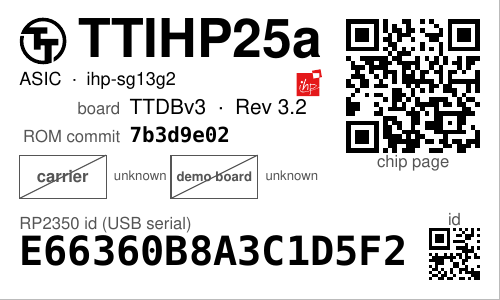
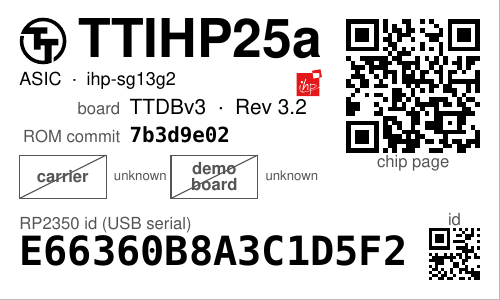
labels: set "demo board" on two lines in its swatch
The swatch box is 11 x 5.5 mm -- wider than it is tall, but not wide
enough for "demo board" on one line, so the label shrank to fit while
"carrier" next to it stayed at full size. A newline in the label now
breaks it across lines, sized and centred as a block, and the two
swatches read as a pair again.

Single-line labels are unaffected: one line puts the block height back
at the cap height and the arithmetic collapses to what it was.

Claude-Session: https://claude.ai/code/session_01LCLVLgs8o6ZGnGG13ZGLVe

Changed region(s): [[0.33, 0.54, 0.51, 0.66]]

diff --git a/src/rpi_hwid/labels.py b/src/rpi_hwid/labels.py
@@ -632,7 +632,9 @@ def swatch(lab, x, y, w, h, mask, silk=None, label=""):
     colour and lettered, like the board itself, in the silkscreen colour.
     A colour that is not recorded leaves the box empty and struck through,
     and the lettering falls back to grey. The keyline matters -- a white
-    soldermask is a white box on white stock."""
+    soldermask is a white box on white stock. A newline in `label` breaks
+    it across lines, which a two-word name needs: set on one line it has
+    to shrink to the box's width, and the box is wider than it is tall."""
     c = lab.c
     px, py = lab.pt(x, y + h)
     c.setStrokeColor(GREY)
@@ -646,9 +648,14 @@ def swatch(lab, x, y, w, h, mask, silk=None, label=""):
     c.setStrokeColor(black)
     c.setFillColor(black)
     if label:
-        size = lab.fitted_size(label, SANS_BOLD, 6, w - 1 * mm, min_size=4.5)
-        lab.text(x + w / 2, y + (h - size * 0.72) / 2, label, SANS_BOLD, size,
-                 align="centre", color=HexColor(silk) if silk else GREY)
+        lines = label.split("\n")
+        size = min(lab.fitted_size(s, SANS_BOLD, 6, w - 1 * mm, min_size=4.5) for s in lines)
+        lead = size * 0.95
+        block = (len(lines) - 1) * lead + size * 0.72
+        top = y + (h - block) / 2
+        for i, s in enumerate(lines):
+            lab.text(x + w / 2, top + i * lead, s, SANS_BOLD, size,
+                     align="centre", color=HexColor(silk) if silk else GREY)
 
 
 def draw_tinytapeout(lab, tt):
@@ -736,7 +743,7 @@ def draw_tinytapeout(lab, tt):
     for i, (cap, mask, silk, mask_name, silk_name) in enumerate((
             ("carrier", tt.chip_colour, tt.chip_silk,
              tt.chip_colour_name, tt.chip_silk_name),
-            ("demo board", tt.demoboard_colour, tt.demoboard_silk,
+            ("demo\nboard", tt.demoboard_colour, tt.demoboard_silk,
              tt.demoboard_colour_name, tt.demoboard_silk_name))):
         sx = x + i * (col_w / 2)
         swatch(lab, sx, y, sw, sh, mask, silk, cap)
